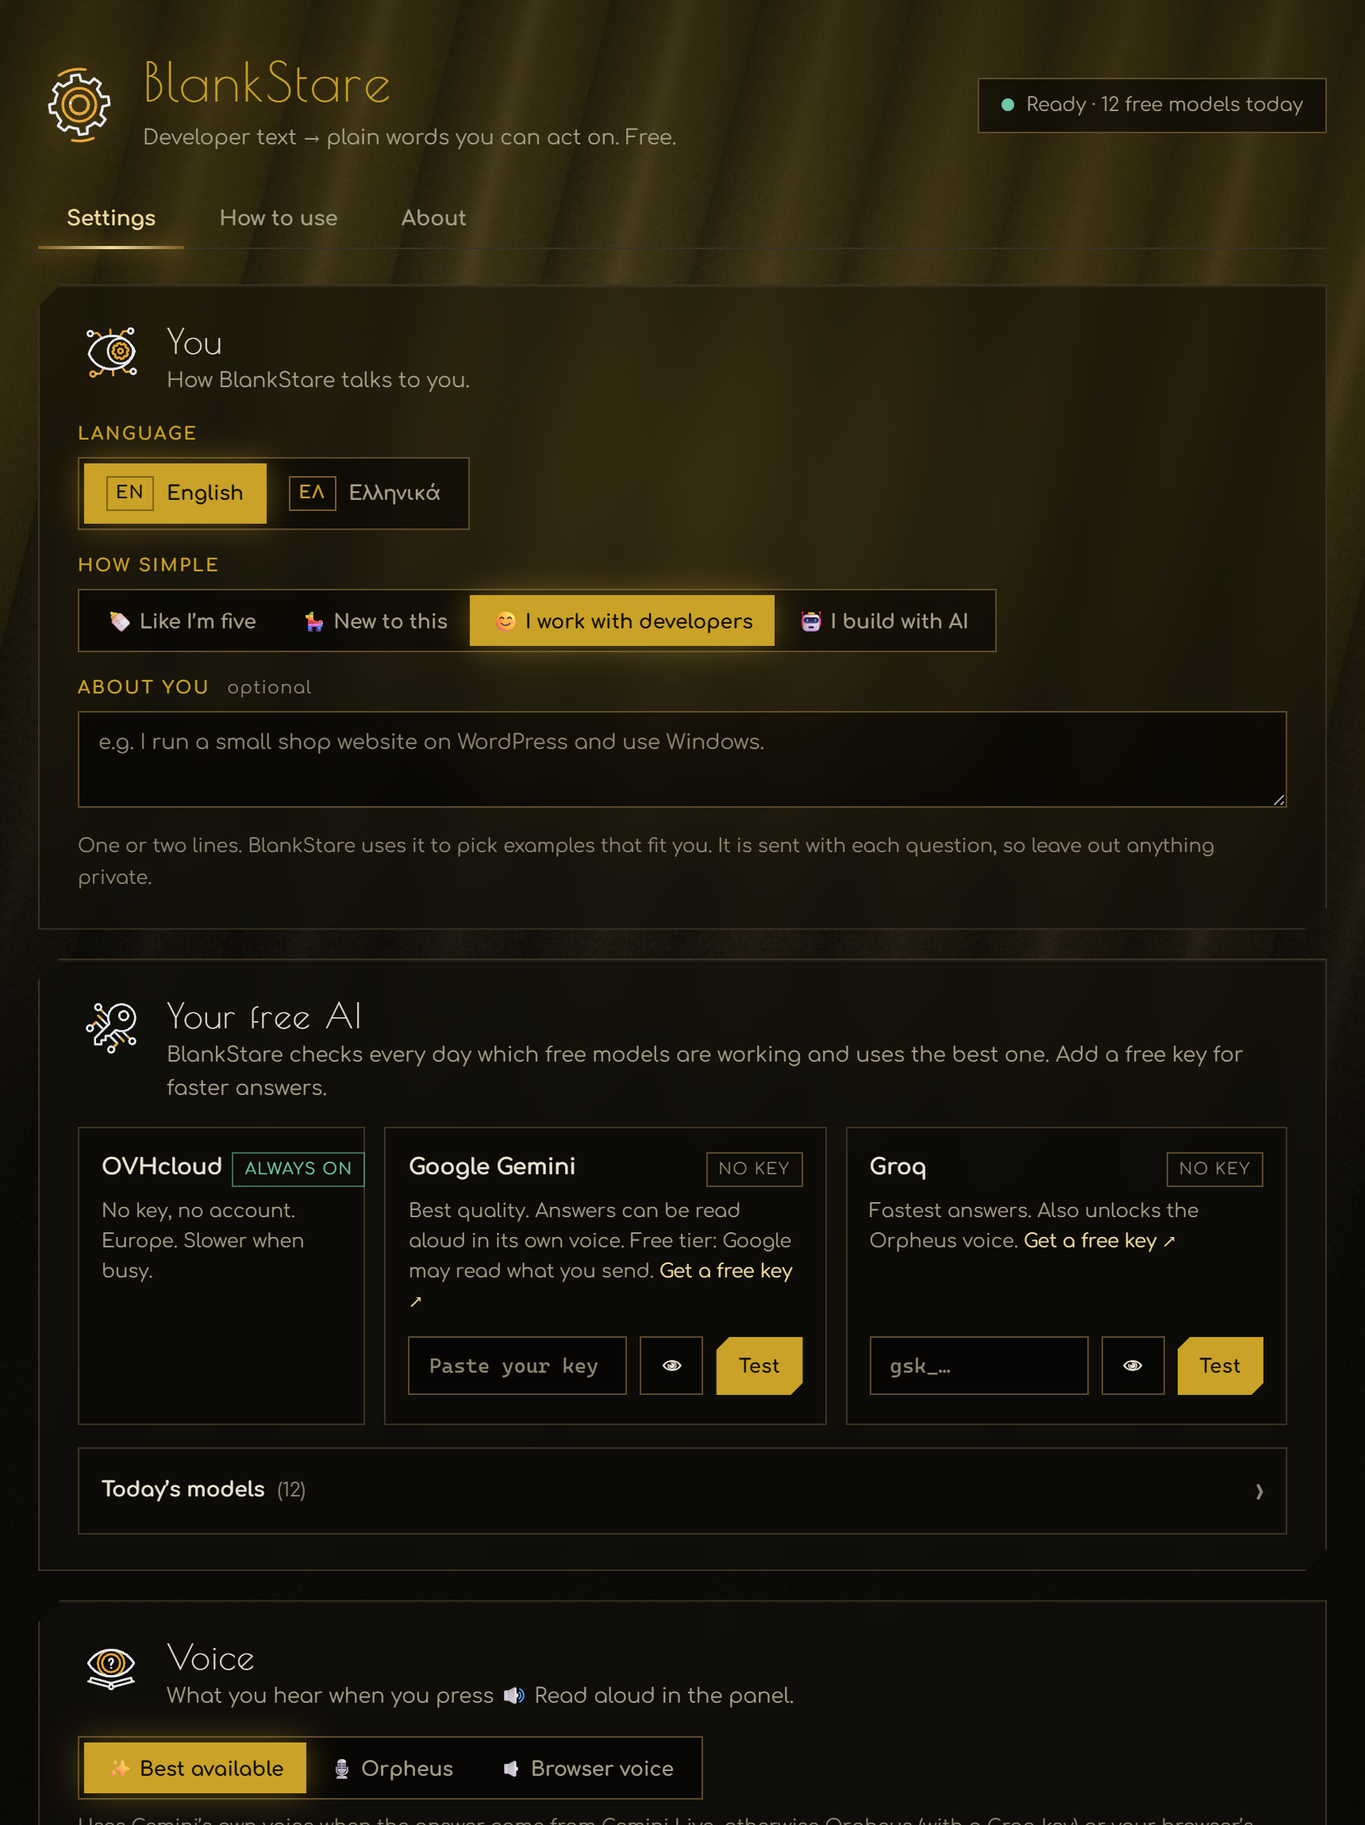
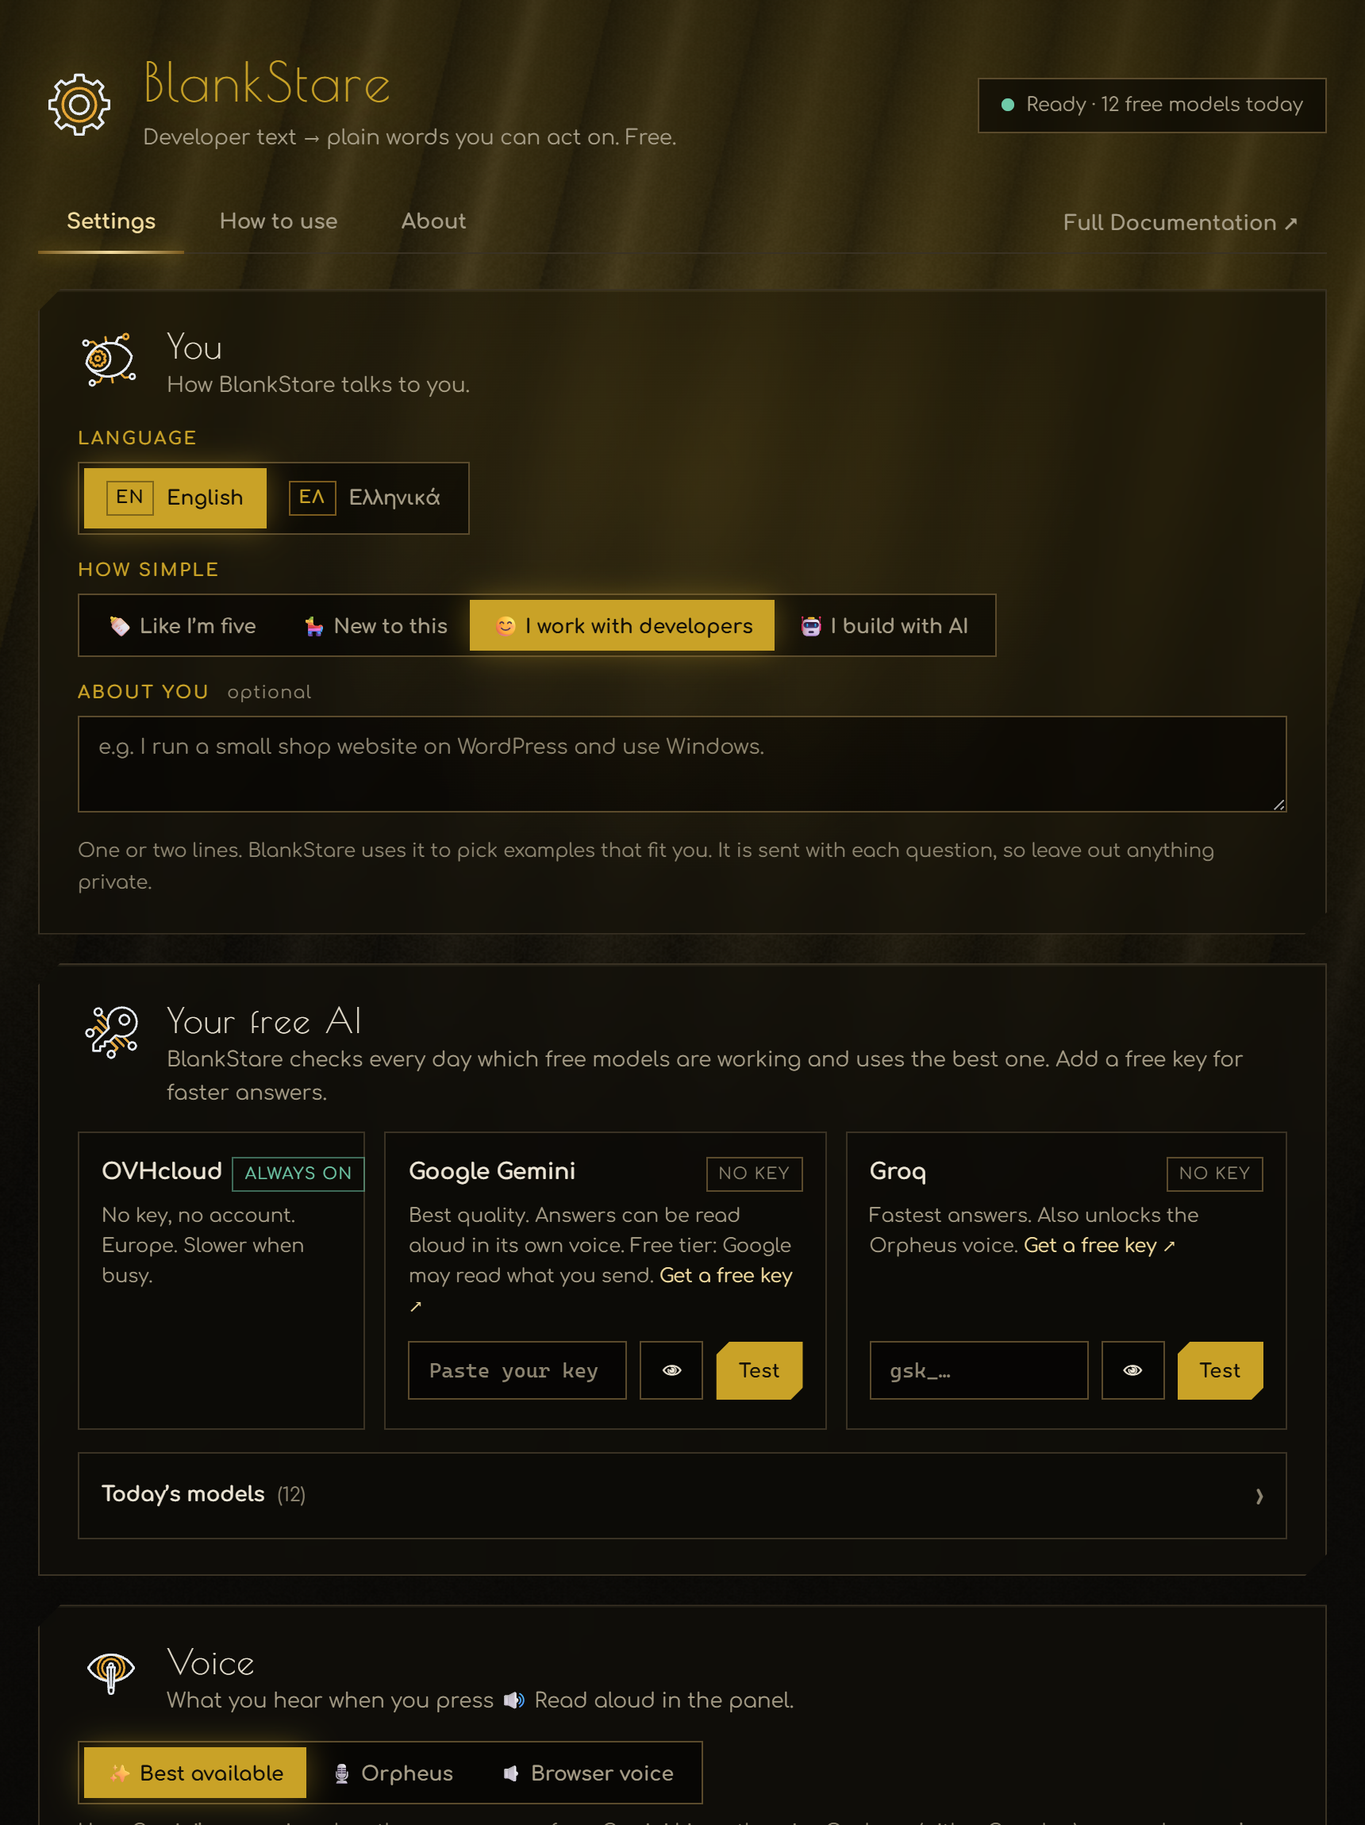
v0.8.1: Web Store prep, docs tab, Ko-fi removed
- Settings tab bar gets "Full Documentation" (opens the docs site).
- Ko-fi links removed; panel footer links to stravelakis.com.
- store/LISTING.md: every field for the Web Store dashboard.
- Promo tiles (440x280 required, 1400x560) via `node shoot.mjs tiles`.
- All screenshots re-shot; shoot.mjs can use a free Gemini key.
- Version 0.8.1, CHANGELOG and release notes.

diff --git a/lab/shoot/tile.html b/lab/shoot/tile.html
@@ -1,0 +1,57 @@
+<!DOCTYPE html>
+<!-- Chrome Web Store promo tiles: small 440x280 (required) and marquee 1400x560.
+     tile.html?size=small|marquee. Rendered by `node shoot.mjs tiles`. -->
+<html lang="en">
+<head>
+<meta charset="UTF-8">
+<link rel="stylesheet" href="../../fonts/comfortaa.css">
+<link rel="stylesheet" href="../../fonts/display.css">
+<style>
+  :root { --accent: #C9A227; --accent-hi: #F2DCA0; --line: #5a4a2c; --ink-2: #A79E88; }
+  * { box-sizing: border-box; }
+  html, body { margin: 0; background: #0b0a08; overflow: hidden; width: 100vw; height: 100vh; }
+  #bg { position: fixed; inset: 0; width: 100%; height: 100%; }
+  .veil { position: fixed; inset: 0; background: radial-gradient(ellipse at 30% 50%, rgba(11,10,8,.25), rgba(11,10,8,.8) 75%); }
+  .frame { position: fixed; inset: 3.5vh 2.2vw; box-shadow: inset 0 0 0 1px var(--line); }
+  .peek { display: none; }
+  .marquee .peek { display: block; position: fixed; right: 6vw; top: 9vh; width: 330px; height: 91vh; overflow: hidden;
+    box-shadow: 0 0 0 1px var(--line), 0 30px 80px -20px rgba(0,0,0,.95), 0 0 60px -20px rgba(201,162,39,.4);
+    -webkit-mask-image: linear-gradient(#000 70%, transparent); mask-image: linear-gradient(#000 70%, transparent); }
+  .peek img { display: block; width: 100%; }
+  .stage { position: relative; height: 100vh; display: flex; align-items: center; gap: 4vw; padding: 0 7vw; }
+  .icon { width: 22vh; height: 22vh; flex: none; filter: drop-shadow(0 0 24px rgba(201,162,39,.45)); }
+  h1 { margin: 0; font: 400 11vh/1 'BlankStare Display', Georgia, serif; color: var(--accent-hi); letter-spacing: .06em; text-transform: uppercase;
+    text-shadow: 0 0 40px rgba(201,162,39,.4); }
+  .rule { width: 12vh; height: 2px; margin: 4vh 0 3.5vh; background: linear-gradient(90deg, var(--accent), transparent); }
+  p { margin: 0; font: 700 6vh/1.35 'Comfortaa', sans-serif; color: var(--ink-2); }
+  p b { color: var(--accent); font-weight: 700; }
+  .small .icon { width: 30vh; height: 30vh; }
+  .small h1 { font-size: 13vh; }
+  .small p { font-size: 7.6vh; }
+  .marquee p { font-size: 5.6vh; max-width: 36ch; }
+</style>
+</head>
+<body>
+<canvas id="bg"></canvas><div class="veil"></div><div class="frame"></div>
+<div class="peek"><img src="../../screenshots/sidepanel-result.png" alt=""></div>
+<div class="stage">
+  <img class="icon" src="../../icons/icon128.png" alt="">
+  <div>
+    <h1>BlankStare</h1>
+    <div class="rule"></div>
+    <p id="line"></p>
+  </div>
+</div>
+<script src="../../utils/fx.js"></script>
+<script>
+  const size = new URLSearchParams(location.search).get('size') || 'small';
+  document.body.classList.add(size);
+  document.getElementById('line').innerHTML = size === 'small'
+    ? 'Dev text → <b>plain English</b>'
+    : 'Error messages, READMEs and docs, rewritten in <b>plain English or Greek</b> you can act on. Free, no account.';
+  BSFX.blinds(document.getElementById('bg'), { colors: ['#0d0c0a', '#C9A227'], light: '#ffe4c4' });
+  Promise.all([document.fonts.ready, ...[...document.images].map(i => new Promise(r => { i.complete ? r() : i.onload = i.onerror = r; }))])
+    .then(() => { document.body.dataset.ready = '1'; });
+</script>
+</body>
+</html>

diff --git a/settings/settings.html b/settings/settings.html
@@ -146,6 +146,7 @@
     <button class="tab active" id="tabbtn-settings" data-tab="settings" role="tab" aria-selected="true" aria-controls="tab-settings">Settings</button>
     <button class="tab" id="tabbtn-howto" data-tab="howto" role="tab" aria-selected="false" aria-controls="tab-howto">How to use</button>
     <button class="tab" id="tabbtn-about" data-tab="about" role="tab" aria-selected="false" aria-controls="tab-about">About</button>
+    <a class="tab-ext" href="https://docs.stravelakis.com/BlankStare-Dev-English-to-English/" target="_blank" rel="noopener">Full Documentation ↗</a>
     <span class="tab-ink" aria-hidden="true"></span>
   </nav>
 
@@ -355,7 +356,6 @@
       <p class="credit">Made by <a href="https://stravelakis.com" target="_blank" rel="noopener">Lambros Stravelakis</a>, built with Claude Code.</p>
       <div class="links">
         <a class="btn ghost sm" href="https://github.com/Stravelakis/BlankStare-Dev-English-to-English" target="_blank" rel="noopener">GitHub</a>
-        <a class="btn ghost sm" href="https://ko-fi.com/stravelakis" target="_blank" rel="noopener">Support on Ko-fi</a>
         <a class="btn ghost sm" href="https://github.com/Stravelakis/BlankStare-Dev-English-to-English/issues/new?template=bug_report.md" target="_blank" rel="noopener">Report a problem</a>
       </div>
     </section>

diff --git a/settings/settings.css b/settings/settings.css
@@ -145,6 +145,10 @@ body.wiz-open .page { opacity: 0; filter: blur(8px); pointer-events: none; }
 .tab:hover { color: var(--ink); }
 .tab.active { color: var(--accent-hi); }
 .tab:focus-visible { outline: 2px solid var(--accent-hi); outline-offset: -2px; }
+/* Looks like a tab, opens the docs site in a new tab. */
+.tab-ext { margin-left: auto; padding: 11px 18px; font: 700 13px var(--body); color: var(--ink-2); text-decoration: none; transition: color .25s; }
+.tab-ext:hover { color: var(--accent-hi); }
+.tab-ext:focus-visible { outline: 2px solid var(--accent-hi); outline-offset: -2px; }
 .tab-ink { position: absolute; bottom: -1px; height: 2px; left: 0; width: 0; background: linear-gradient(90deg, var(--accent-lo), var(--accent-hi), var(--accent-lo));
   box-shadow: 0 0 12px rgb(var(--accent-rgb) / .8); transition: left .45s var(--snap), width .45s var(--snap); }
 .tab-content { display: grid; gap: 18px; }

diff --git a/sidepanel/sidepanel.html b/sidepanel/sidepanel.html
@@ -175,9 +175,7 @@
 
   <!-- ══ FOOTER ══ -->
   <footer class="panel-footer">
-    <a href="https://skilitsa.com" target="_blank" rel="noopener" class="footer-brand">skilitsa.com</a>
-    <span class="footer-sep">·</span>
-    <a href="https://ko-fi.com/stravelakis" target="_blank" rel="noopener" class="footer-kofi">☕ Ko-fi</a>
+    <a href="https://stravelakis.com" target="_blank" rel="noopener" class="footer-brand">stravelakis.com</a>
     <span class="footer-sep">·</span>
     <a href="https://github.com/Stravelakis/BlankStare-Dev-English-to-English/issues/new" target="_blank" rel="noopener" class="footer-link">Report</a>
   </footer>

diff --git a/sidepanel/sidepanel.css b/sidepanel/sidepanel.css
@@ -564,7 +564,6 @@ button { cursor: pointer; font-family: var(--font); border: none; background: no
 .panel-footer a { color: var(--ink-3); text-decoration: none; }
 .panel-footer a:hover { color: var(--accent); }
 .footer-sep { color: var(--line-hot); }
-.footer-kofi:hover { color: var(--crit) !important; }
 
 /* ── SCROLLBAR ── */
 ::-webkit-scrollbar { width: 5px; }

diff --git a/store/LISTING.md b/store/LISTING.md
@@ -1,0 +1,96 @@
+# Chrome Web Store listing: BlankStare
+
+Everything to paste into the developer dashboard
+(https://chrome.google.com/webstore/devconsole), field by field.
+Prepared 21/11/2026 for version 0.8.1.
+
+## Package
+
+- **File:** `blankstare-v0.8.1.zip`, built from the `v0.8.1` tag with:
+
+  ```bash
+  git archive --format=zip -o blankstare-v0.8.1.zip v0.8.1 manifest.json background.js content.js sidepanel settings utils vendor fonts icons LICENSE NOTICE
+  ```
+
+## Store listing tab
+
+- **Name:** comes from the manifest: `BlankStare: Dev English to English`
+- **Summary:** comes from the manifest:
+  `Turns developer docs, error messages and tech jargon into plain English or Greek you can act on. Free, works with no key.`
+- **Category:** Developer Tools
+- **Language:** English
+- **Description:**
+
+  ```text
+  Found an error message, a README or install steps you can't follow? Select the text and BlankStare rewrites it in plain English (or Greek) you can act on: what it means, and what to do next.
+
+  • Works straight away. No account, no key, no payment.
+  • Commands stay exact, in copy boxes. Steps keep their numbers.
+  • "Do it with me" turns instructions into a checklist you tick off.
+  • "What do I need first?" lists what to install or know before you start.
+  • More detail, different wording, or a summary of the whole page.
+  • Ask follow-up questions, or paste a screenshot (Ctrl+V) to have it explained.
+  • Four reading levels, from "like I'm five" to "I build with AI".
+  • Answers read aloud. English and Greek.
+  • Each tab has its own panel. Your last 20 answers are one click away.
+
+  How it gets answers: BlankStare uses free AI services. With no key it uses OVHcloud's free AI. You can add a free Google Gemini or Groq key for faster, better answers. It checks every day which free models are working and moves on by itself when one is busy or gone.
+
+  Open it: select text and right-click "Explain with BlankStare", click the toolbar icon, or press Alt+Shift+B. Alt+Shift+E queues the selection.
+
+  Privacy: the text you select goes only to the AI service that answers. Nothing goes to the author. No ads, no tracking. Full policy: https://docs.stravelakis.com/BlankStare-Dev-English-to-English/privacy/
+
+  Documentation: https://docs.stravelakis.com/BlankStare-Dev-English-to-English/
+  ```
+
+- **Store icon (128×128):** `icons/icon128.png`
+- **Screenshots (1280×800), in this order:** `store/1-result.png`,
+  `store/2-checklist.png`, `store/3-greek.png`, `store/4-setup.png`,
+  `store/5-settings.png`
+- **Small promo tile (440×280, required):** `store/promo-small-440x280.png`
+- **Marquee promo tile (1400×560, optional):** `store/promo-marquee-1400x560.png`
+- **Official URL:** leave empty. It needs a site verified in Google Search Console.
+- **Homepage URL:** https://docs.stravelakis.com/BlankStare-Dev-English-to-English/
+- **Support URL:** https://github.com/Stravelakis/BlankStare-Dev-English-to-English/issues
+
+## Privacy practices tab
+
+- **Single purpose:**
+
+  ```text
+  Explains developer text (error messages, documentation, instructions) that the user selects, in plain English or Greek, in the browser side panel.
+  ```
+
+- **Permission justifications:**
+
+  | Permission | Justification to paste |
+  |---|---|
+  | `storage` | Saves the user's settings, optional free API keys, today's model list and the last 20 answers. Settings sync through the user's own Chrome account; answers are kept only for the browser session. |
+  | `contextMenus` | Adds the "Explain with BlankStare" item to the right-click menu when text is selected. |
+  | `sidePanel` | BlankStare's whole interface is the side panel, opened for the tab the user opened it from. |
+  | Host permission: `oai.endpoints.kepler.ai.cloud.ovh.net` | Sends the selected text to OVHcloud's free AI to get the explanation (the default, no key needed). |
+  | Host permission: `generativelanguage.googleapis.com` | Sends the selected text to Google Gemini when the user has added their own free Gemini key. |
+  | Host permission: `api.groq.com` | Sends the selected text to Groq when the user has added their own free Groq key, and for the optional Orpheus read-aloud voice. |
+  | Host permission: `www.googleapis.com` | YouTube video search, only when the user adds a YouTube key and presses Search. |
+  | Host permission: `stravelakis.com/wp-json/nein/*` | Downloads a public list of which free AI models are working today. Nothing is sent. |
+  | Content script on all sites | Reads the text the user selects (and the page text when they press "Full page"), and shows the small "Explain" button beside a selection while the panel is open. It reads nothing until the user acts. |
+
+- **Remote code:** No, I am not using remote code. (All scripts ship in the package.)
+- **Data usage, what is collected:** tick
+  - **Website content** — the selected text, or the page text for "Full page", sent to the AI service to produce the answer.
+  - **Authentication information** — the user's own optional API keys, stored in their Chrome and sent only to Google or Groq to sign the request.
+- **Certify all three:** not sold to third parties; not used for unrelated purposes; not used for creditworthiness or lending.
+- **Privacy policy URL:** https://docs.stravelakis.com/BlankStare-Dev-English-to-English/privacy/
+
+## Distribution tab
+
+- **Visibility:** Public
+- **Regions:** All regions
+- **Price:** Free
+
+## Review notes
+
+- The content script on all sites usually means an in-depth review, which can
+  take longer than a few days.
+- If the reviewer asks how to test: install, select any text on a web page,
+  right-click "Explain with BlankStare". No key or account needed.

diff --git a/HANDOFF.md b/HANDOFF.md
@@ -1,6 +1,6 @@
 # Handoff: BlankStare
 
-_Last updated: 2026-11-21 · by: Claude Code · version: v0.8.0 (released 20 Nov 2026) + unreleased panel-per-tab work_
+_Last updated: 2026-11-21 · by: Claude Code · version: v0.8.1 (21 Nov 2026), Web Store submission prepared_
 
 ## In one paragraph
 
@@ -11,7 +11,18 @@ rebuilt daily from The Nein and each provider's own catalogue. Works with no
 key (OVHcloud), better with a free Gemini or Groq key. Released on GitHub;
 not on the Chrome Web Store yet. Plan and sources: PLAN-v0.8.md.
 
-## Since v0.8.0 (unreleased, 21 Nov 2026)
+## v0.8.1 and the Chrome Web Store (21 Nov 2026)
+
+- **Web Store:** everything to paste is in `store/LISTING.md` (description,
+  permission justifications, data-use answers, privacy URL); images in
+  `store/` incl. the required 440×280 promo tile (`node shoot.mjs tiles`).
+  Ak does the account ($5 one-time fee), upload and submit.
+- **Links:** Ko-fi removed everywhere; panel footer → stravelakis.com;
+  Settings tab bar has **Full Documentation ↗** (docs site).
+- **Screenshots** re-shot 21/11 with `GEMINI_KEY` (OVH refuses this laptop);
+  the key is set after the Settings shots so it never appears.
+
+## v0.8.1 contents (21 Nov 2026)
 
 - **One panel per tab.** The manifest has no default panel any more;
   `openPanel()` in background.js sets a panel for that tab only
@@ -74,11 +85,10 @@ not on the Chrome Web Store yet. Plan and sources: PLAN-v0.8.md.
 
 ## Next steps, in order
 
-1. Ak tries, in a real Chrome: toolbar icon and right-click open the panel in
+1. Ak: register the Chrome Web Store developer account and submit, following
+   `store/LISTING.md`. Upload `blankstare-v0.8.1.zip` (built from the tag).
+2. Ak tries, in a real Chrome: toolbar icon and right-click open the panel in
    that tab only; Alt+Shift+E; Full page after moving to another page.
-2. Chrome Web Store listing: images in `store/`; privacy answers must list
-   OVHcloud, Google (free-tier review rule), Groq and The Nein; zip with the
-   `git archive` line in DEPLOY.md.
 3. Copy the DotField speed fix into the shared docs theme.
 
 ## Open questions
@@ -121,9 +131,8 @@ so a non-developer can read the translation *instead of* the original.
 
 - **GitHub**: https://github.com/Stravelakis/BlankStare-Dev-English-to-English
 - **Creator**: Lambros Stravelakis — lambros@stravelakis.com — https://stravelakis.com
-- **Ko-fi**: https://ko-fi.com/stravelakis
 - **Built with**: Claude Code + Hermes agent
-- **Business model**: Zero cost. ~~BYOK: users supply their own free Groq API key.~~ v0.8: works with no key; free Gemini or Groq keys are optional. Optional support via Ko-fi. No subscription, never.
+- **Business model**: Zero cost. ~~BYOK: users supply their own free Groq API key.~~ v0.8: works with no key; free Gemini or Groq keys are optional. No Ko-fi link (removed 21/11/2026). No subscription, never.
 - **Target audience**: Vibecoders first and foremost (people building real things with AI coding tools without a traditional dev background), and secondarily anyone else who works alongside developers — designers, PMs, founders, marketers.
 
 ---

diff --git a/docs/release-notes/v0.8.1.md b/docs/release-notes/v0.8.1.md
@@ -1,0 +1,11 @@
+## v0.8.1: one panel per tab, Full page that reads the page you are on, a glossary in a second
+
+| | English | Devenglish |
+|---|---|---|
+| ✨ New | Each tab has its own BlankStare. It opens in the tab you opened it from and keeps that tab's answer. | No `side_panel.default_path`; `openPanel()` calls `sidePanel.setOptions({tabId, path: sidepanel.html?tab=<id>})` then `open()` in the same gesture; queued text carries `pendingTabId`; last answer kept as `tabAnswer:<id>` in session storage |
+| ✨ New | Settings has a Full Documentation tab. | Link in the Settings tab bar to docs.stravelakis.com |
+| 👍 Better | The term glossary shows up in about a second, next to the answer. | Glossary starts with the answer from the selected text; `chainFor('glossary')` puts Flash-Lite first (measured 1.1s, was ~30s after the answer) |
+| 🔧 Fixed | Full page reads the page the tab shows when you press it. | Reads the panel's own tab at click time; clear message when no content script answers |
+| 🧹 Removed | The "Read more on" links, the Web search button and the Ko-fi links. | Resource links, DuckDuckGo hand-off and Ko-fi removed; footer links to stravelakis.com |
+
+**Install:** [from GitHub](https://github.com/Stravelakis/BlankStare-Dev-English-to-English#quick-start) · **Docs:** [docs.stravelakis.com/BlankStare-Dev-English-to-English](https://docs.stravelakis.com/BlankStare-Dev-English-to-English/) · **Privacy:** [policy](https://docs.stravelakis.com/BlankStare-Dev-English-to-English/privacy/)

diff --git a/CHANGELOG.md b/CHANGELOG.md
@@ -5,6 +5,8 @@ Format follows [Keep a Changelog](https://keepachangelog.com/en/1.1.0/), version
 
 ## [Unreleased]
 
+## [0.8.1] - 2026-11-21
+
 ### Changed
 - Each tab has its own panel. The panel opens only in the tab you opened it
   from, keeps its own answer, and hides when you switch to another tab.
@@ -17,7 +19,12 @@ Format follows [Keep a Changelog](https://keepachangelog.com/en/1.1.0/), version
 - A clear message when a page cannot be read (browser pages, or tabs opened
   before an install or update).
 
+### Added
+- Settings has a **Full Documentation** tab that opens the docs site.
+
 ### Removed
+- The Ko-fi links (panel footer, Settings, README). The panel footer now
+  links to stravelakis.com instead of skilitsa.com.
 - The "Read more on" links (MDN, W3Schools, DevDocs) and the Web search
   button.
 

diff --git a/GUIDE.md b/GUIDE.md
@@ -169,7 +169,6 @@ screenshot.
 **Is it really free?**
 Yes. It works with no key, and the optional Gemini and Groq keys are free (no
 card or billing). BlankStare has no paid tier.
-If it saves you time, there's a Ko-fi link in the README.
 
 **What does it send, and where?**
 The text you select (or a pasted screenshot, or the page for a summary) goes to

diff --git a/README.md b/README.md
@@ -110,4 +110,3 @@ BlankStare was built by **Lambros Stravelakis** while building
 Available for web apps, Chrome extensions and AI tools:
 [stravelakis.com](https://stravelakis.com) · lambros@stravelakis.com
 
-If BlankStare saves you time: [ko-fi.com/stravelakis](https://ko-fi.com/stravelakis)
